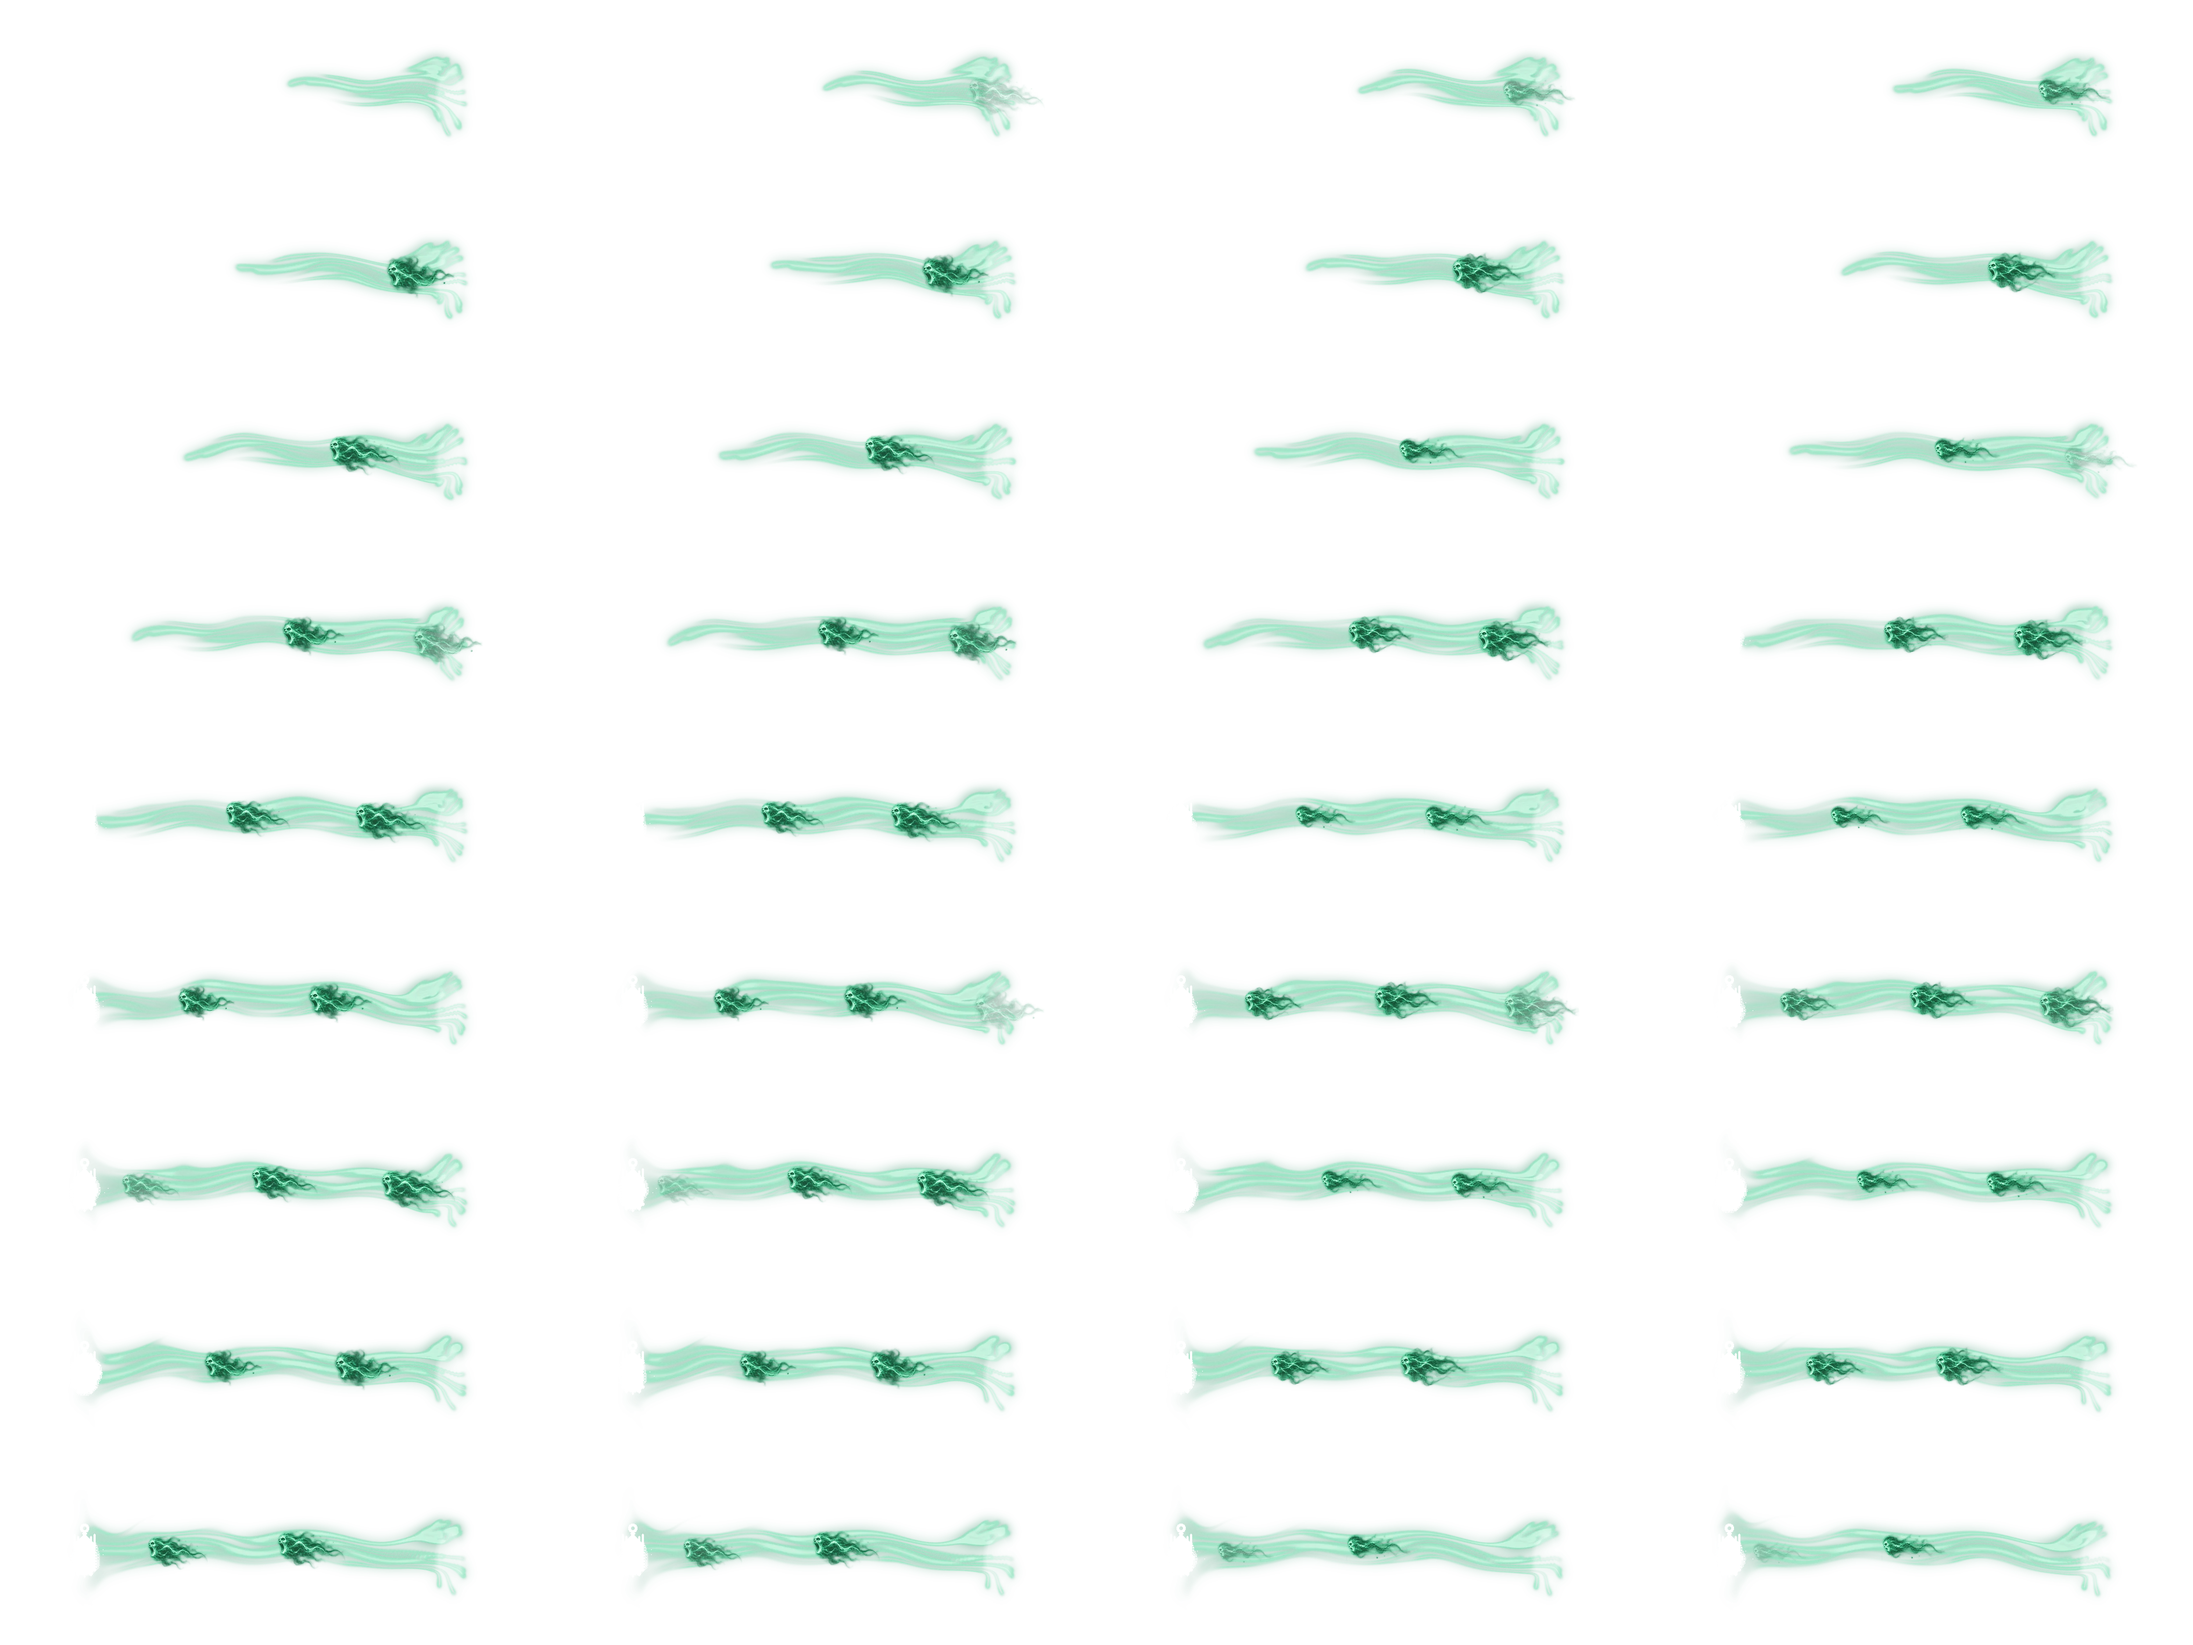
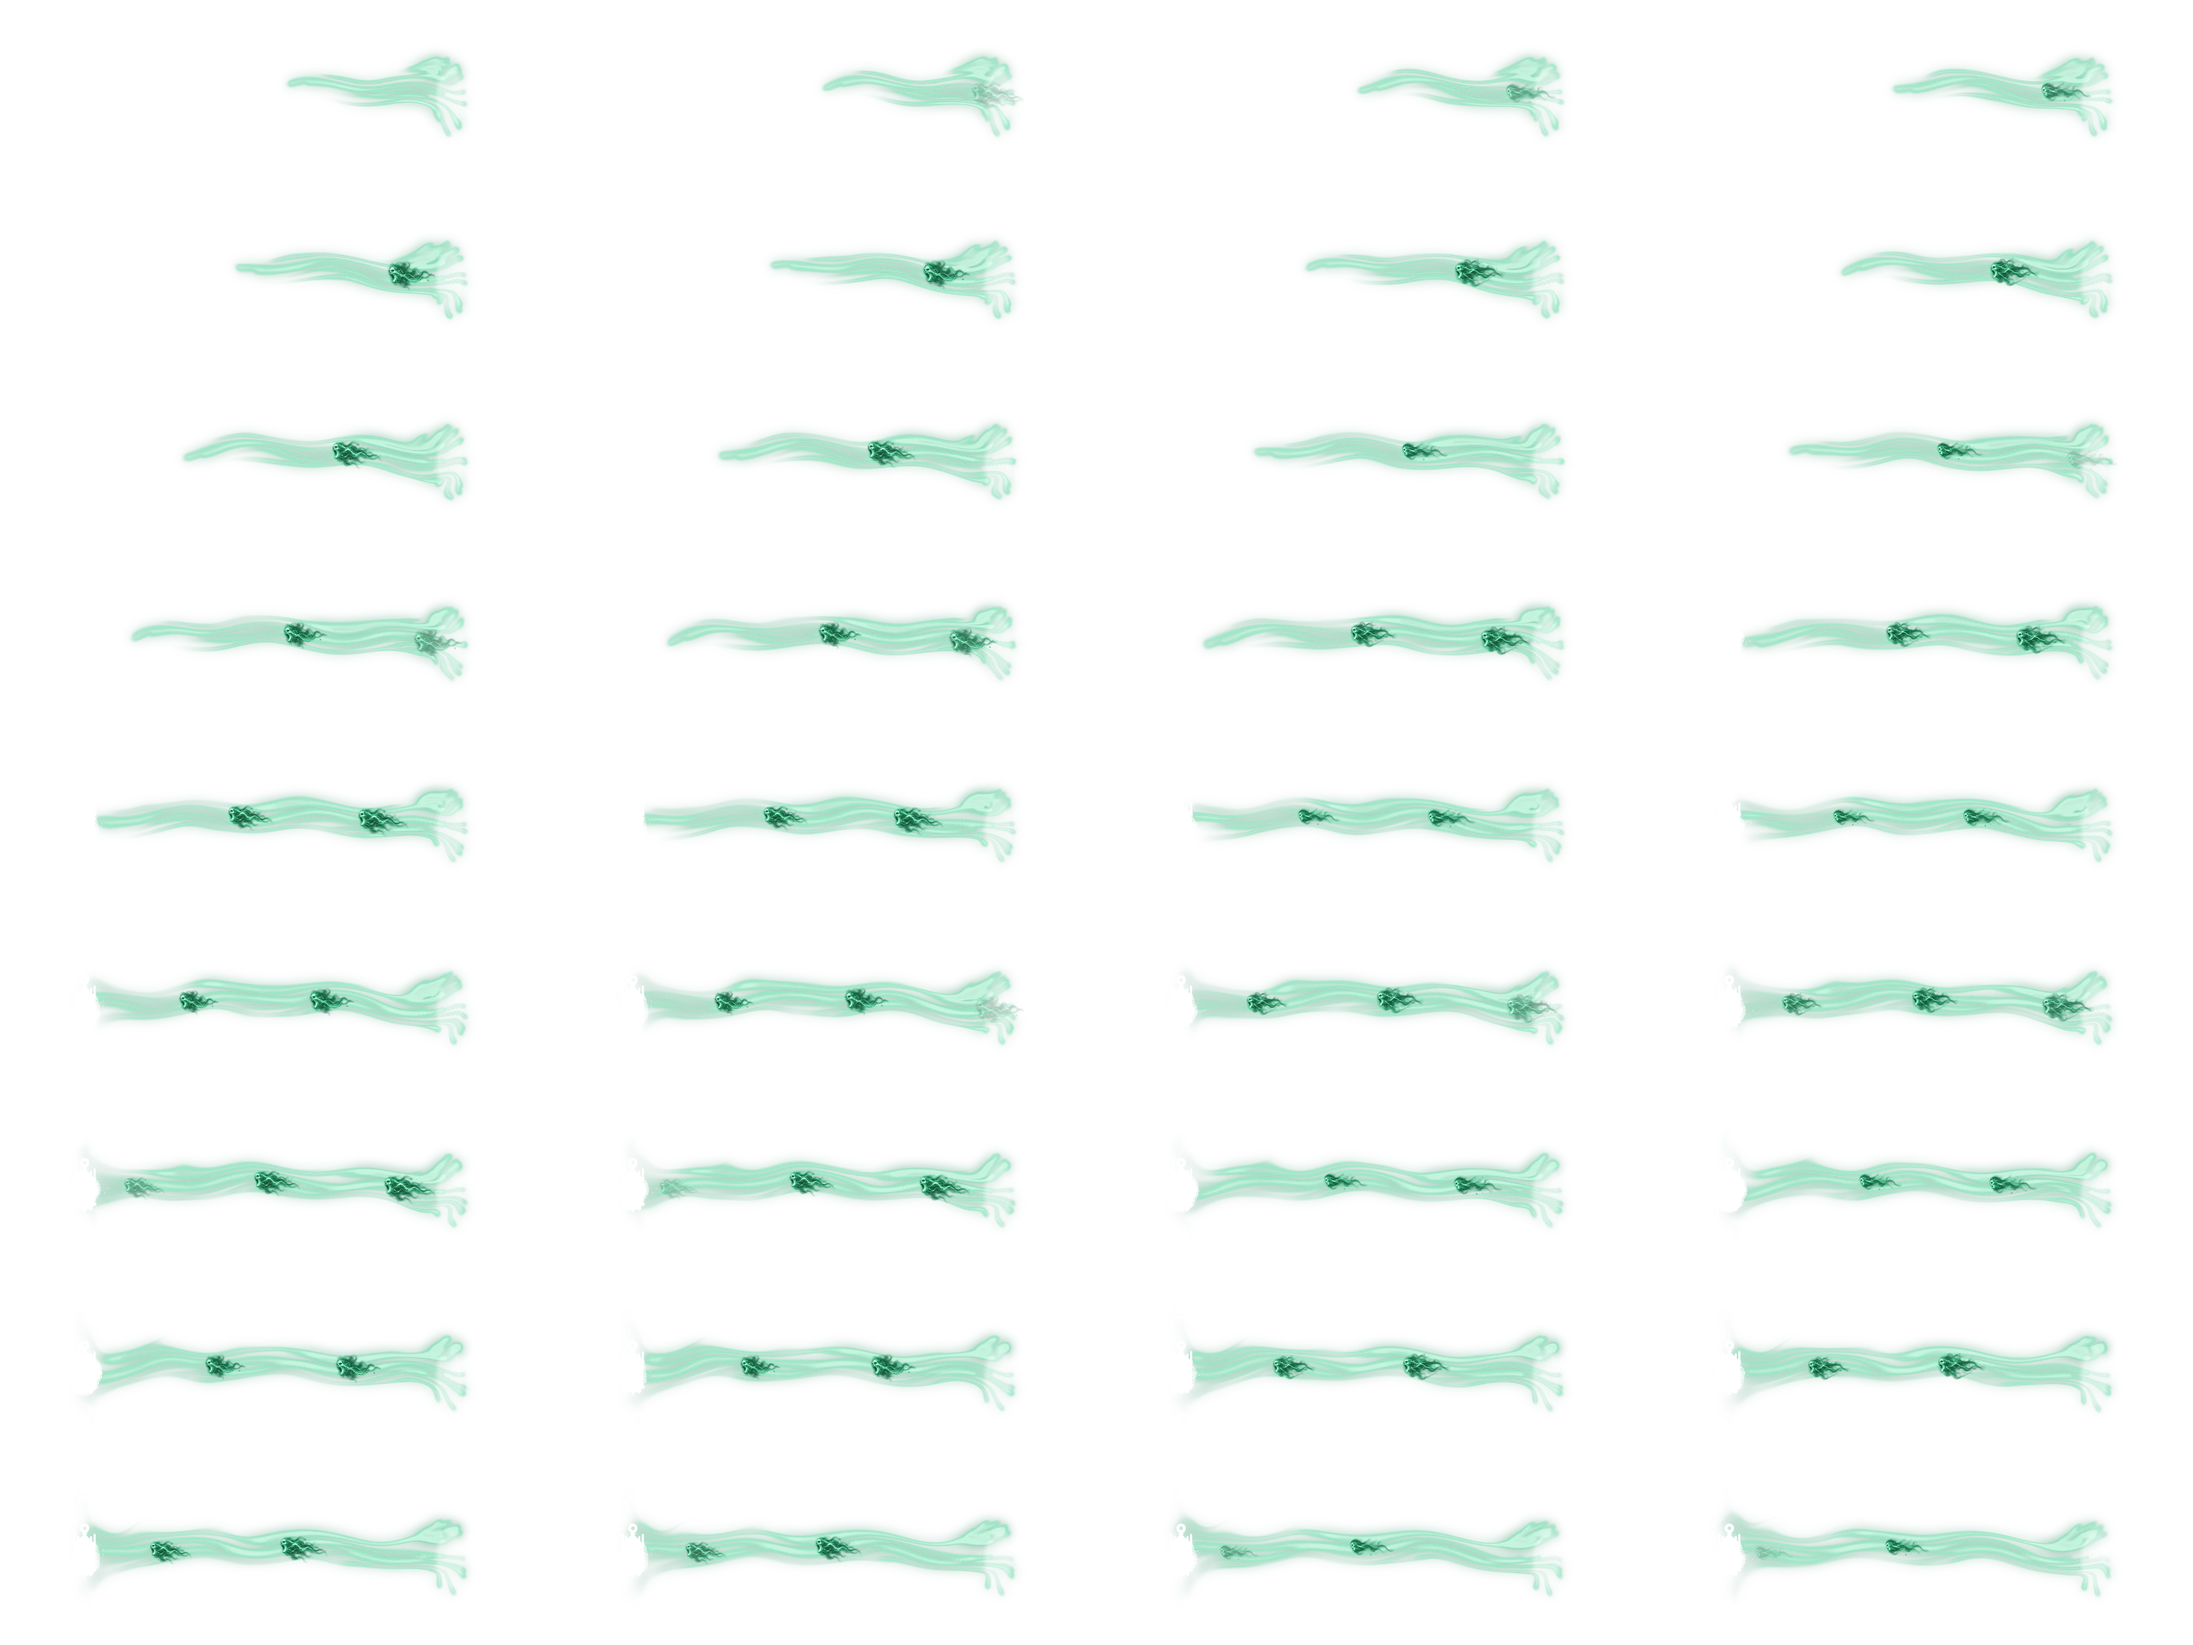
fix(vfx): Toll the Dead souls 30% smaller
Sam (2026-10-26): "Make the flying ghouls 30% smaller." The stream sheets (tollStream0-2) re-rendered from
sim_toll_unified.py with the souls at 70% of their old size; same simulation, same timing.

Claude-Session: https://claude.ai/code/session_01D3V385Yf6xB9daMiw7THQg

diff --git a/scripts/vfx/toll-the-dead/sim_toll_unified.py b/scripts/vfx/toll-the-dead/sim_toll_unified.py
@@ -263,7 +263,7 @@ for gi in range(NTOT):
             if 0 <= q <= 1:
                 x = TGT[0] - 10 - q * (TGT[0] - 10 - LAN[0] - 26)
                 y, _ = path_y(np.array([x]))
-                size = int(190 * SC * (0.95 - 0.25 * q))
+                size = int(133 * SC * (0.95 - 0.25 * q))   # souls 30% smaller (Sam, 2026-10-26)
                 im = SOUL_IMGS[(gi // 2) % 4].resize((size, size), Image.LANCZOS)
                 a = min(1, q * 7, (1 - q) * 7)
                 im.putalpha(im.getchannel('A').point(lambda p, a=a: int(p * a)))
